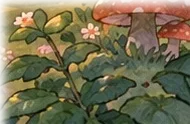
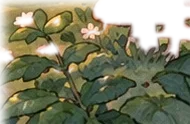
WHERE WHICH: イントロ文を時間帯別に・歩く表現変更・動く範囲を葉だけに・ねんね12秒
Claude-Session: https://claude.ai/code/session_019A1yRGDyZjdUYCR2MfqVT7

diff --git a/where-which/index.html b/where-which/index.html
@@ -1694,7 +1694,7 @@ body.ph-intro #skip-btn,body.ph-sleep #skip-btn{display:block}
       setInterval(() => updateScene(false), 60000);
 
       // ===== はじまりの流れ：キャラづくり → なまえ → ナレーション → ねんね → 三日後 → かいわ =====
-      const SLEEP_MS = 40000;
+      const SLEEP_MS = 12000;
       const wait = (ms) => new Promise((res) => setTimeout(res, ms));
 
       function savePhase() {
@@ -1750,14 +1750,22 @@ body.ph-intro #skip-btn,body.ph-sleep #skip-btn{display:block}
 
       function narrationLines() {
         const n = state.characterName;
+        const sc = sceneNow || sceneByClock(new Date());
+        const lightLine = sc === 'rain'
+          ? 'まどの\u3000そとでは、\nあめが\u3000しとしと\u3000ふっています。'
+          : sc === 'night'
+          ? 'まどには、あたたかな\u3000あかりが、\nぽつんと\u3000ともっています。'
+          : sc === 'dusk'
+            ? 'ゆうやけの\u3000いろが、\nまどべを\u3000そめています。'
+            : 'まどから\u3000やわらかな\u3000ひかりが、\nそっと\u3000さしこんでいます。';
         return [
           'ここは、ちいさな\u3000おへや。',
-          'まどから\u3000やわらかな\u3000ひかりが、\nそっと\u3000さしこんでいます。',
+          lightLine,
           'そこに、ひとつの\u3000いのちが\u3000うまれました。',
           `なまえは、${n}。`,
           'まだ\u3000なにも\u3000しらない。\nことばも、まだ\u3000ありません。',
-          `それでも\u3000${n}は、\nゆっくりと\u3000あるき、`,
-          'すこし\u3000ねむり、\nまた\u3000あるく。',
+          `それでも\u3000${n}は、\nふわり\u3000ふわりと\u3000ただよい、`,
+          'すこし\u3000ねむり、\nまた\u3000ふわり。',
           'そうして\u3000ときは、\nしずかに\u3000すぎてゆくのです……。',
         ];
       }

diff --git a/HANDOFF.md b/HANDOFF.md
@@ -768,3 +768,9 @@ PC版の筋立てと仕組み（防御→追跡→反撃、攻撃信号、耐久
 - 時刻で自動切替（60秒ごとに判定、3.2秒クロスフェード）：5:30–16:00 昼 / 16:00–18:30 夕方 / 18:30–5:30 夜。夜はホタルのCSS、雨は雨粒のCSSアニメを重ねる。
 - 確認用：URLに `?scene=day|dusk|night|rain` で強制表示。
 - 未対応：実際の天気連動（雨）。位置情報＋天気API（Open-Meteo等）が必要。
+
+### 21-q. 調整（イントロ文・動く/動かない・ねんね時間）
+- イントロの2行目は背景の時間帯で変える（昼=ひかりがさしこむ／夕方=ゆうやけ／夜=まどのあかり／雨=あめの音）。夜に外から光が差す表現は廃止。
+- 「あるく」→「ふわり ふわりと ただよい」（んちょは歩かない）。
+- 葉っぱスプライトは「緑のピクセルだけ」の合成マスクで切り出し（木の幹・看板・ポスト・キノコは動かさない）。動くのは葉・ランタン・窓の灯り・水面のみ。
+- ねんね時間 SLEEP_MS 40秒→12秒。
